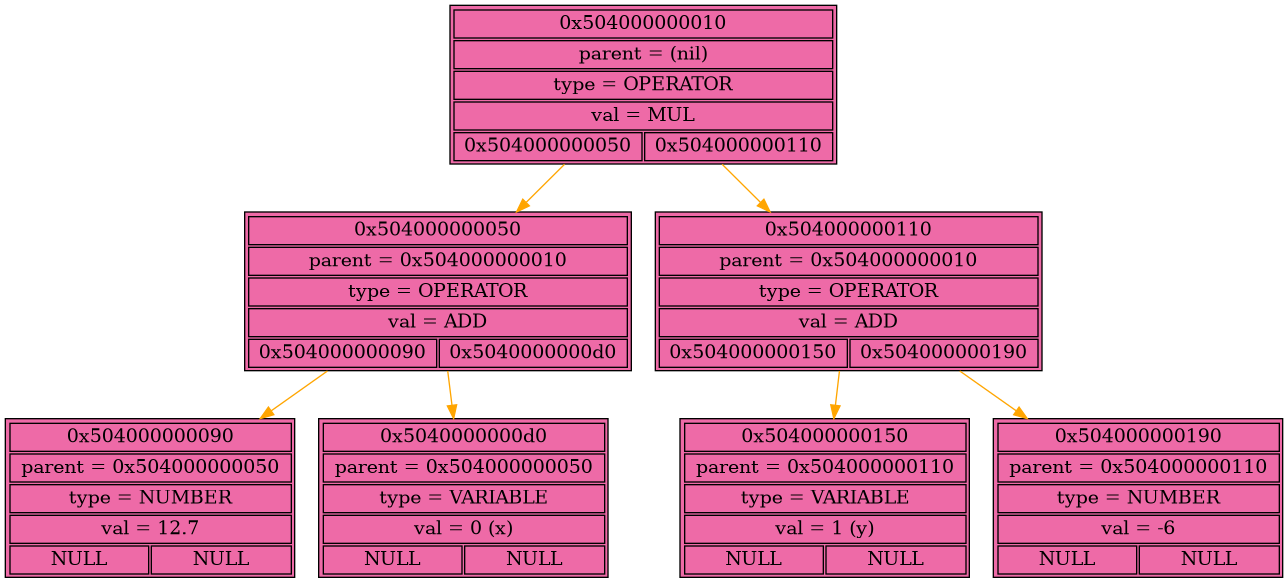
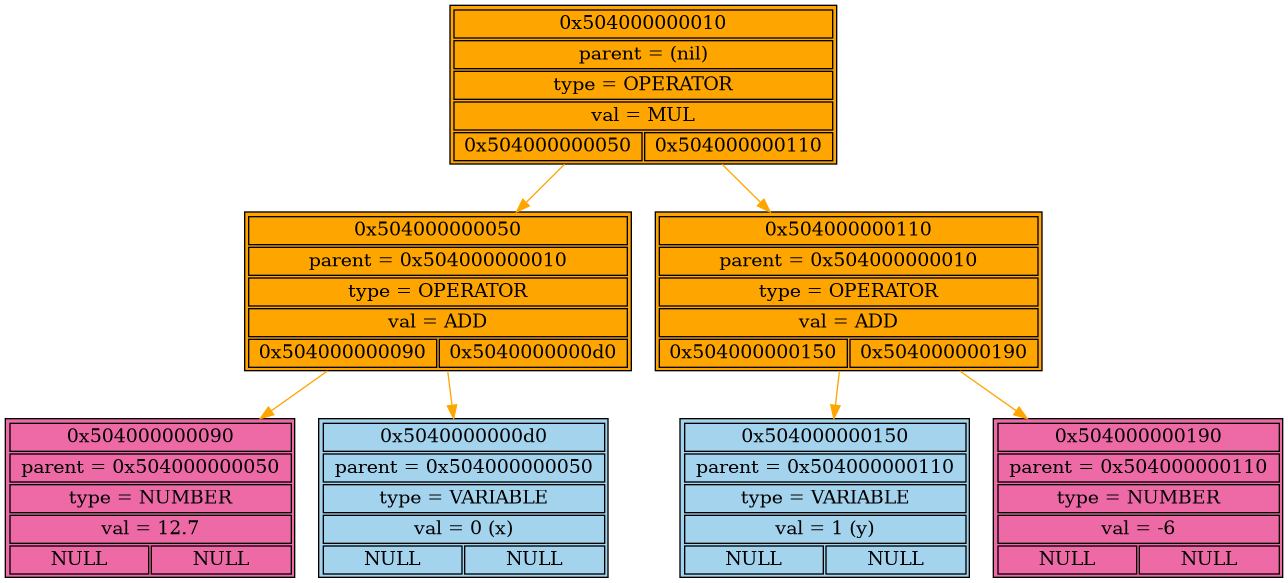
color dump

diff --git a/src/treeDump.cpp b/src/treeDump.cpp
@@ -44,12 +44,12 @@ void dumpNode( node_t* node, int rank, FILE* treeFile ){
                             ( unsigned long )node, node, node->parent, stringNodeValueType, node->data.number  );
     }
     else if( node->nodeValueType == OPERATOR ){
-        fprintf( treeFile, "\tnode%lx [shape=\"plain\"; style =\"filled\"; fillcolor =\"hotpink2\"; label = "
+        fprintf( treeFile, "\tnode%lx [shape=\"plain\"; style =\"filled\"; fillcolor =\"orange\"; label = "
                             "<<table><tr><td colspan = \"2\" > %p </td></tr> <tr><td colspan = \"2\" > parent = %p </td></tr> <tr><td width = \"100\" colspan = \"2\" > type = %s </td></tr> <tr><td width = \"100\" colspan = \"2\" > val = %s </td></tr> ",
                             ( unsigned long )node, node, node->parent, stringNodeValueType, getStringOfMathOperator( node )  );
     }
     else if( node->nodeValueType == VARIABLE){
-        fprintf( treeFile, "\tnode%lx [shape=\"plain\"; style =\"filled\"; fillcolor =\"hotpink2\"; label = "
+        fprintf( treeFile, "\tnode%lx [shape=\"plain\"; style =\"filled\"; fillcolor =\"lightskyblue2\"; label = "
                             "<<table><tr><td colspan = \"2\" > %p </td></tr> <tr><td colspan = \"2\" > parent = %p </td></tr> <tr><td width = \"100\" colspan = \"2\" > type = %s </td></tr> <tr><td width = \"100\" colspan = \"2\" > val = %d (%s) </td></tr> ",
                             ( unsigned long )node, node, node->parent, stringNodeValueType, node->data.variableInArray, getStringOfVariable( node )  );
     }

diff --git a/src/main.cpp b/src/main.cpp
@@ -65,8 +65,6 @@ int main(){
 
     dumpMathTree( &tree );
 
-    dumpTree( &tree );
-
     //calculateTheFunctionValue( &tree );
 
     //writeInformationInFile( &tree );
@@ -77,7 +75,7 @@ int main(){
 
     dumpMathTree( &differentiationTree );
 
-    //dumpTree( &differentiationTree );
+    dumpTree( &tree );
 
     destroyTree( &differentiationTree );
 
